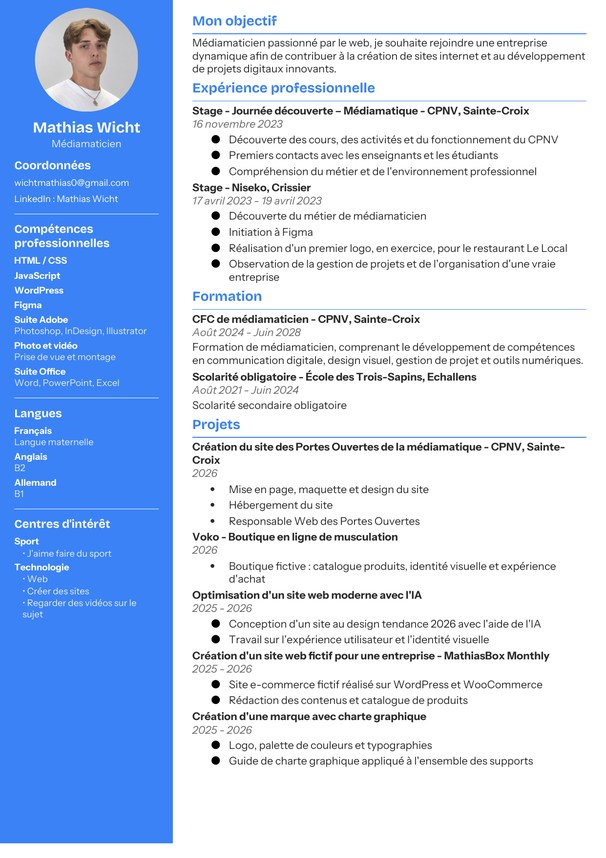
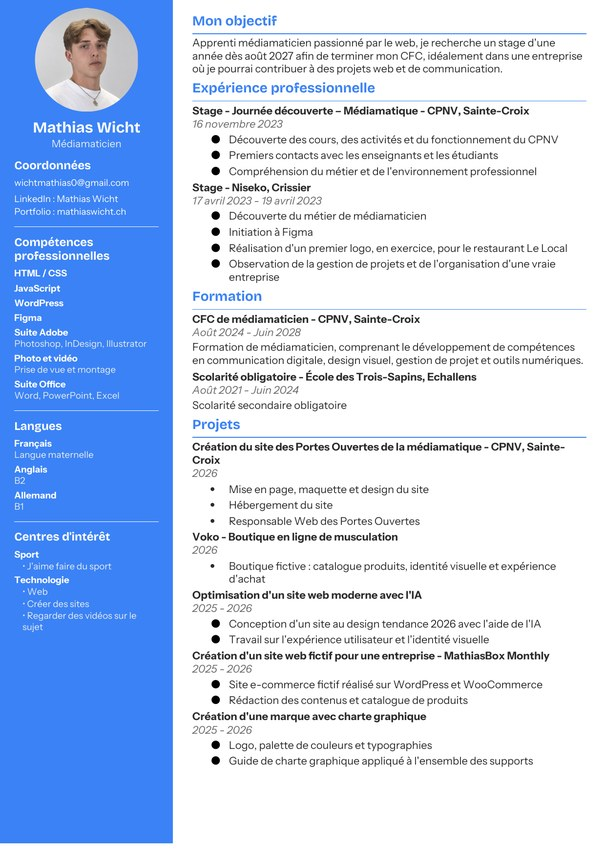
CV : objectif stage août 2027 et lien portfolio

Changed region(s): [[0.0, 0.2424, 0.2673, 0.7576], [0.3267, 0.0303, 0.9802, 0.0909]]

diff --git a/index.html b/index.html
@@ -485,7 +485,7 @@
     </nav>
     <div class="nav-end">
       <div class="lang" aria-label="Langue"><span class="on">FR</span><a href="en/index.html" hreflang="en">EN</a></div>
-      <a download="CV-Mathias-Wicht.pdf" href="documents/cv-mathias-wicht.pdf?v=5" class="btn btn-blue">
+      <a download="CV-Mathias-Wicht.pdf" href="documents/cv-mathias-wicht.pdf?v=6" class="btn btn-blue">
         <svg viewBox="0 0 24 24" fill="none" stroke="currentColor" stroke-width="2"><path d="M12 4v11M7 10l5 5 5-5M5 20h14"/></svg>
         <span class="lbl">Mon CV</span>
       </a>
@@ -507,7 +507,7 @@
           <p>Le <strong>design graphique</strong> vient en complément. Il me sert pour mes maquettes, mes brochures et des affiches que je fais pendant mon temps libre. Cette année, je suis aussi responsable web des Portes Ouvertes de la médiamatique.</p>
           <div class="actions">
             <a href="#projets" class="btn btn-blue">Voir mes projets web</a>
-            <a download="CV-Mathias-Wicht.pdf" href="documents/cv-mathias-wicht.pdf?v=5" class="btn">
+            <a download="CV-Mathias-Wicht.pdf" href="documents/cv-mathias-wicht.pdf?v=6" class="btn">
               <svg viewBox="0 0 24 24" fill="none" stroke="currentColor" stroke-width="2"><path d="M12 4v11M7 10l5 5 5-5M5 20h14"/></svg>
               Télécharger mon CV
             </a>
@@ -908,14 +908,14 @@
   <section class="block" id="cv">
     <div class="wrap">
       <div class="cv fade">
-        <a download="CV-Mathias-Wicht.pdf" class="cv-thumb" href="documents/cv-mathias-wicht.pdf?v=5" aria-label="Télécharger mon CV"><img src="assets/images/cv/cv-apercu.jpg?v=5" alt="Aperçu de mon CV"></a>
+        <a download="CV-Mathias-Wicht.pdf" class="cv-thumb" href="documents/cv-mathias-wicht.pdf?v=6" aria-label="Télécharger mon CV"><img src="assets/images/cv/cv-apercu.jpg?v=6" alt="Aperçu de mon CV"></a>
         <div>
           <span class="kicker">Curriculum vitae</span>
           <h2>Mon CV</h2>
           <p>Toutes mes informations sur une page : formation, expériences, projets, compétences et langues.</p>
           <p>Je recherche une place de stage ou de pratique professionnelle à partir d'août 2027, de préférence dans le web.</p>
           <div class="actions">
-            <a download="CV-Mathias-Wicht.pdf" href="documents/cv-mathias-wicht.pdf?v=5" class="btn btn-blue">
+            <a download="CV-Mathias-Wicht.pdf" href="documents/cv-mathias-wicht.pdf?v=6" class="btn btn-blue">
               <svg viewBox="0 0 24 24" fill="none" stroke="currentColor" stroke-width="2"><path d="M12 4v11M7 10l5 5 5-5M5 20h14"/></svg>
               Télécharger (PDF)
             </a>
@@ -982,7 +982,7 @@
     <nav>
       <a href="https://www.linkedin.com/in/mathias-wicht-8a5030327/" target="_blank" rel="noopener">LinkedIn</a>
       <a href="https://www.instagram.com/t1as.design/" target="_blank" rel="noopener">Instagram</a>
-      <a download="CV-Mathias-Wicht.pdf" href="documents/cv-mathias-wicht.pdf?v=5">Télécharger mon CV</a>
+      <a download="CV-Mathias-Wicht.pdf" href="documents/cv-mathias-wicht.pdf?v=6">Télécharger mon CV</a>
       <a href="confidentialite.html">Confidentialité</a><a href="#" data-cookie-settings>Gérer les cookies</a>
       <a href="#haut">Haut de page</a>
     </nav>

diff --git a/en/index.html b/en/index.html
@@ -484,7 +484,7 @@
 </nav>
 <div class="nav-end">
 <div aria-label="Language" class="lang"><a href="../index.html" hreflang="fr">FR</a><span class="on">EN</span></div>
-<a download="CV-Mathias-Wicht.pdf" class="btn btn-blue" href="../documents/cv-mathias-wicht.pdf?v=5">
+<a download="CV-Mathias-Wicht.pdf" class="btn btn-blue" href="../documents/cv-mathias-wicht.pdf?v=6">
 <svg fill="none" stroke="currentColor" stroke-width="2" viewbox="0 0 24 24"><path d="M12 4v11M7 10l5 5 5-5M5 20h14"></path></svg>
 <span class="lbl">My CV</span>
 </a>
@@ -504,7 +504,7 @@
 <p><strong>Graphic design</strong> comes on top of that. I use it for my mockups, my brochures and the posters I make in my free time. This year, I'm also the web lead for the mediamatics Open Days.</p>
 <div class="actions">
 <a class="btn btn-blue" href="#projets">See my web projects</a>
-<a download="CV-Mathias-Wicht.pdf" class="btn" href="../documents/cv-mathias-wicht.pdf?v=5">
+<a download="CV-Mathias-Wicht.pdf" class="btn" href="../documents/cv-mathias-wicht.pdf?v=6">
 <svg fill="none" stroke="currentColor" stroke-width="2" viewbox="0 0 24 24"><path d="M12 4v11M7 10l5 5 5-5M5 20h14"></path></svg>
               Download my CV
             </a>
@@ -888,14 +888,14 @@
 <section class="block" id="cv">
 <div class="wrap">
 <div class="cv fade">
-<a download="CV-Mathias-Wicht.pdf" aria-label="Download my CV" class="cv-thumb" href="../documents/cv-mathias-wicht.pdf?v=5"><img alt="Preview of my CV" src="../assets/images/cv/cv-apercu.jpg?v=5"/></a>
+<a download="CV-Mathias-Wicht.pdf" aria-label="Download my CV" class="cv-thumb" href="../documents/cv-mathias-wicht.pdf?v=6"><img alt="Preview of my CV" src="../assets/images/cv/cv-apercu.jpg?v=6"/></a>
 <div>
 <span class="kicker">Curriculum vitae</span>
 <h2>My CV</h2>
 <p>Everything about me on one page: education, experience, projects, skills and languages.</p>
 <p>I'm looking for an internship or work placement starting in August 2027, ideally in web. My CV is in French.</p>
 <div class="actions">
-<a download="CV-Mathias-Wicht.pdf" class="btn btn-blue" href="../documents/cv-mathias-wicht.pdf?v=5">
+<a download="CV-Mathias-Wicht.pdf" class="btn btn-blue" href="../documents/cv-mathias-wicht.pdf?v=6">
 <svg fill="none" stroke="currentColor" stroke-width="2" viewbox="0 0 24 24"><path d="M12 4v11M7 10l5 5 5-5M5 20h14"></path></svg>
               Download (PDF)
             </a>
@@ -959,7 +959,7 @@
 <nav>
 <a href="https://www.linkedin.com/in/mathias-wicht-8a5030327/" rel="noopener" target="_blank">LinkedIn</a>
 <a href="https://www.instagram.com/t1as.design/" rel="noopener" target="_blank">Instagram</a>
-<a download="CV-Mathias-Wicht.pdf" href="../documents/cv-mathias-wicht.pdf?v=5">Download my CV</a>
+<a download="CV-Mathias-Wicht.pdf" href="../documents/cv-mathias-wicht.pdf?v=6">Download my CV</a>
 <a href="privacy.html">Privacy policy</a><a href="#" data-cookie-settings>Cookie settings</a>
       <a href="#haut">Back to top</a>
 </nav>

diff --git a/en/projets/impression-typographique.html b/en/projets/impression-typographique.html
@@ -38,7 +38,7 @@
 <a class="brand" href="../index.html"><img alt="T1as" src="../../assets/images/brand/t1as-logo.png"/><i></i><span>Mathias Wicht</span></a>
 <a class="back" href="../index.html#projets"><svg fill="none" stroke="currentColor" stroke-width="2" viewbox="0 0 24 24"><path d="M15 6l-6 6 6 6"></path></svg>All projects</a>
 <div class="nav-r"><div aria-label="Language" class="lang"><a href="../../projets/impression-typographique.html" hreflang="fr">FR</a><span class="on">EN</span></div>
-<a download="CV-Mathias-Wicht.pdf" class="btn btn-blue" href="../../documents/cv-mathias-wicht.pdf?v=5"><svg fill="none" stroke="currentColor" stroke-width="2" viewbox="0 0 24 24"><path d="M12 4v11M7 10l5 5 5-5M5 20h14"></path></svg><span class="lbl">My CV</span></a></div>
+<a download="CV-Mathias-Wicht.pdf" class="btn btn-blue" href="../../documents/cv-mathias-wicht.pdf?v=6"><svg fill="none" stroke="currentColor" stroke-width="2" viewbox="0 0 24 24"><path d="M12 4v11M7 10l5 5 5-5M5 20h14"></path></svg><span class="lbl">My CV</span></a></div>
 </div>
 </header>
 <main>
@@ -77,7 +77,7 @@
 <footer>
 <div class="wrap foot">
 <span>© <span id="year">2026</span> Mathias Wicht</span>
-<span class="foot-links"><a download="CV-Mathias-Wicht.pdf" href="../../documents/cv-mathias-wicht.pdf?v=5">Download my CV</a><a href="mailto:wichtmathias0@gmail.com">wichtmathias0@gmail.com</a><a href="../privacy.html">Privacy policy</a><a href="#" data-cookie-settings>Cookie settings</a><a href="../index.html">Back to portfolio</a></span>
+<span class="foot-links"><a download="CV-Mathias-Wicht.pdf" href="../../documents/cv-mathias-wicht.pdf?v=6">Download my CV</a><a href="mailto:wichtmathias0@gmail.com">wichtmathias0@gmail.com</a><a href="../privacy.html">Privacy policy</a><a href="#" data-cookie-settings>Cookie settings</a><a href="../index.html">Back to portfolio</a></span>
 </div>
 </footer>
 <div aria-hidden="true" class="viewer" id="viewer">

diff --git a/en/projets/portes-ouvertes-2026.html b/en/projets/portes-ouvertes-2026.html
@@ -38,7 +38,7 @@
 <a class="brand" href="../index.html"><img alt="T1as" src="../../assets/images/brand/t1as-logo.png"/><i></i><span>Mathias Wicht</span></a>
 <a class="back" href="../index.html#projets"><svg fill="none" stroke="currentColor" stroke-width="2" viewbox="0 0 24 24"><path d="M15 6l-6 6 6 6"></path></svg>All projects</a>
 <div class="nav-r"><div aria-label="Language" class="lang"><a href="../../projets/portes-ouvertes-2026.html" hreflang="fr">FR</a><span class="on">EN</span></div>
-<a download="CV-Mathias-Wicht.pdf" class="btn btn-blue" href="../../documents/cv-mathias-wicht.pdf?v=5"><svg fill="none" stroke="currentColor" stroke-width="2" viewbox="0 0 24 24"><path d="M12 4v11M7 10l5 5 5-5M5 20h14"></path></svg><span class="lbl">My CV</span></a></div>
+<a download="CV-Mathias-Wicht.pdf" class="btn btn-blue" href="../../documents/cv-mathias-wicht.pdf?v=6"><svg fill="none" stroke="currentColor" stroke-width="2" viewbox="0 0 24 24"><path d="M12 4v11M7 10l5 5 5-5M5 20h14"></path></svg><span class="lbl">My CV</span></a></div>
 </div>
 </header>
 <main>
@@ -80,7 +80,7 @@
 <footer>
 <div class="wrap foot">
 <span>© <span id="year">2026</span> Mathias Wicht</span>
-<span class="foot-links"><a download="CV-Mathias-Wicht.pdf" href="../../documents/cv-mathias-wicht.pdf?v=5">Download my CV</a><a href="mailto:wichtmathias0@gmail.com">wichtmathias0@gmail.com</a><a href="../privacy.html">Privacy policy</a><a href="#" data-cookie-settings>Cookie settings</a><a href="../index.html">Back to portfolio</a></span>
+<span class="foot-links"><a download="CV-Mathias-Wicht.pdf" href="../../documents/cv-mathias-wicht.pdf?v=6">Download my CV</a><a href="mailto:wichtmathias0@gmail.com">wichtmathias0@gmail.com</a><a href="../privacy.html">Privacy policy</a><a href="#" data-cookie-settings>Cookie settings</a><a href="../index.html">Back to portfolio</a></span>
 </div>
 </footer>
 <div aria-hidden="true" class="viewer" id="viewer">

diff --git a/en/projets/brochure-varsovie.html b/en/projets/brochure-varsovie.html
@@ -38,7 +38,7 @@
 <a class="brand" href="../index.html"><img alt="T1as" src="../../assets/images/brand/t1as-logo.png"/><i></i><span>Mathias Wicht</span></a>
 <a class="back" href="../index.html#projets"><svg fill="none" stroke="currentColor" stroke-width="2" viewbox="0 0 24 24"><path d="M15 6l-6 6 6 6"></path></svg>All projects</a>
 <div class="nav-r"><div aria-label="Language" class="lang"><a href="../../projets/brochure-varsovie.html" hreflang="fr">FR</a><span class="on">EN</span></div>
-<a download="CV-Mathias-Wicht.pdf" class="btn btn-blue" href="../../documents/cv-mathias-wicht.pdf?v=5"><svg fill="none" stroke="currentColor" stroke-width="2" viewbox="0 0 24 24"><path d="M12 4v11M7 10l5 5 5-5M5 20h14"></path></svg><span class="lbl">My CV</span></a></div>
+<a download="CV-Mathias-Wicht.pdf" class="btn btn-blue" href="../../documents/cv-mathias-wicht.pdf?v=6"><svg fill="none" stroke="currentColor" stroke-width="2" viewbox="0 0 24 24"><path d="M12 4v11M7 10l5 5 5-5M5 20h14"></path></svg><span class="lbl">My CV</span></a></div>
 </div>
 </header>
 <main>
@@ -81,7 +81,7 @@
 <footer>
 <div class="wrap foot">
 <span>© <span id="year">2026</span> Mathias Wicht</span>
-<span class="foot-links"><a download="CV-Mathias-Wicht.pdf" href="../../documents/cv-mathias-wicht.pdf?v=5">Download my CV</a><a href="mailto:wichtmathias0@gmail.com">wichtmathias0@gmail.com</a><a href="../privacy.html">Privacy policy</a><a href="#" data-cookie-settings>Cookie settings</a><a href="../index.html">Back to portfolio</a></span>
+<span class="foot-links"><a download="CV-Mathias-Wicht.pdf" href="../../documents/cv-mathias-wicht.pdf?v=6">Download my CV</a><a href="mailto:wichtmathias0@gmail.com">wichtmathias0@gmail.com</a><a href="../privacy.html">Privacy policy</a><a href="#" data-cookie-settings>Cookie settings</a><a href="../index.html">Back to portfolio</a></span>
 </div>
 </footer>
 <div aria-hidden="true" class="viewer" id="viewer">

diff --git a/projets/impression-typographique.html b/projets/impression-typographique.html
@@ -38,7 +38,7 @@
     <a href="../index.html" class="brand"><img src="../assets/images/brand/t1as-logo.png" alt="T1as"><i></i><span>Mathias Wicht</span></a>
     <a href="../index.html#projets" class="back"><svg viewBox="0 0 24 24" fill="none" stroke="currentColor" stroke-width="2"><path d="M15 6l-6 6 6 6"/></svg>Tous les projets</a>
     <div class="nav-r"><div class="lang" aria-label="Langue"><span class="on">FR</span><a href="../en/projets/impression-typographique.html" hreflang="en">EN</a></div>
-    <a download="CV-Mathias-Wicht.pdf" href="../documents/cv-mathias-wicht.pdf?v=5" class="btn btn-blue"><svg viewBox="0 0 24 24" fill="none" stroke="currentColor" stroke-width="2"><path d="M12 4v11M7 10l5 5 5-5M5 20h14"/></svg><span class="lbl">Mon CV</span></a></div>
+    <a download="CV-Mathias-Wicht.pdf" href="../documents/cv-mathias-wicht.pdf?v=6" class="btn btn-blue"><svg viewBox="0 0 24 24" fill="none" stroke="currentColor" stroke-width="2"><path d="M12 4v11M7 10l5 5 5-5M5 20h14"/></svg><span class="lbl">Mon CV</span></a></div>
   </div>
 </header>
 
@@ -82,7 +82,7 @@
 <footer>
   <div class="wrap foot">
     <span>© <span id="year">2026</span> Mathias Wicht</span>
-    <span class="foot-links"><a download="CV-Mathias-Wicht.pdf" href="../documents/cv-mathias-wicht.pdf?v=5">Télécharger mon CV</a><a href="mailto:wichtmathias0@gmail.com">wichtmathias0@gmail.com</a><a href="../confidentialite.html">Confidentialité</a><a href="#" data-cookie-settings>Gérer les cookies</a><a href="../index.html">Retour au portfolio</a></span>
+    <span class="foot-links"><a download="CV-Mathias-Wicht.pdf" href="../documents/cv-mathias-wicht.pdf?v=6">Télécharger mon CV</a><a href="mailto:wichtmathias0@gmail.com">wichtmathias0@gmail.com</a><a href="../confidentialite.html">Confidentialité</a><a href="#" data-cookie-settings>Gérer les cookies</a><a href="../index.html">Retour au portfolio</a></span>
   </div>
 </footer>
 

diff --git a/en/projets/charte-linscrit.html b/en/projets/charte-linscrit.html
@@ -38,7 +38,7 @@
 <a class="brand" href="../index.html"><img alt="T1as" src="../../assets/images/brand/t1as-logo.png"/><i></i><span>Mathias Wicht</span></a>
 <a class="back" href="../index.html#projets"><svg fill="none" stroke="currentColor" stroke-width="2" viewbox="0 0 24 24"><path d="M15 6l-6 6 6 6"></path></svg>All projects</a>
 <div class="nav-r"><div aria-label="Language" class="lang"><a href="../../projets/charte-linscrit.html" hreflang="fr">FR</a><span class="on">EN</span></div>
-<a download="CV-Mathias-Wicht.pdf" class="btn btn-blue" href="../../documents/cv-mathias-wicht.pdf?v=5"><svg fill="none" stroke="currentColor" stroke-width="2" viewbox="0 0 24 24"><path d="M12 4v11M7 10l5 5 5-5M5 20h14"></path></svg><span class="lbl">My CV</span></a></div>
+<a download="CV-Mathias-Wicht.pdf" class="btn btn-blue" href="../../documents/cv-mathias-wicht.pdf?v=6"><svg fill="none" stroke="currentColor" stroke-width="2" viewbox="0 0 24 24"><path d="M12 4v11M7 10l5 5 5-5M5 20h14"></path></svg><span class="lbl">My CV</span></a></div>
 </div>
 </header>
 <main>
@@ -85,7 +85,7 @@
 <footer>
 <div class="wrap foot">
 <span>© <span id="year">2026</span> Mathias Wicht</span>
-<span class="foot-links"><a download="CV-Mathias-Wicht.pdf" href="../../documents/cv-mathias-wicht.pdf?v=5">Download my CV</a><a href="mailto:wichtmathias0@gmail.com">wichtmathias0@gmail.com</a><a href="../privacy.html">Privacy policy</a><a href="#" data-cookie-settings>Cookie settings</a><a href="../index.html">Back to portfolio</a></span>
+<span class="foot-links"><a download="CV-Mathias-Wicht.pdf" href="../../documents/cv-mathias-wicht.pdf?v=6">Download my CV</a><a href="mailto:wichtmathias0@gmail.com">wichtmathias0@gmail.com</a><a href="../privacy.html">Privacy policy</a><a href="#" data-cookie-settings>Cookie settings</a><a href="../index.html">Back to portfolio</a></span>
 </div>
 </footer>
 <div aria-hidden="true" class="viewer" id="viewer">

diff --git a/en/projets/regimo-lausanne.html b/en/projets/regimo-lausanne.html
@@ -38,7 +38,7 @@
 <a class="brand" href="../index.html"><img alt="T1as" src="../../assets/images/brand/t1as-logo.png"/><i></i><span>Mathias Wicht</span></a>
 <a class="back" href="../index.html#projets"><svg fill="none" stroke="currentColor" stroke-width="2" viewbox="0 0 24 24"><path d="M15 6l-6 6 6 6"></path></svg>All projects</a>
 <div class="nav-r"><div aria-label="Language" class="lang"><a href="../../projets/regimo-lausanne.html" hreflang="fr">FR</a><span class="on">EN</span></div>
-<a download="CV-Mathias-Wicht.pdf" class="btn btn-blue" href="../../documents/cv-mathias-wicht.pdf?v=5"><svg fill="none" stroke="currentColor" stroke-width="2" viewbox="0 0 24 24"><path d="M12 4v11M7 10l5 5 5-5M5 20h14"></path></svg><span class="lbl">My CV</span></a></div>
+<a download="CV-Mathias-Wicht.pdf" class="btn btn-blue" href="../../documents/cv-mathias-wicht.pdf?v=6"><svg fill="none" stroke="currentColor" stroke-width="2" viewbox="0 0 24 24"><path d="M12 4v11M7 10l5 5 5-5M5 20h14"></path></svg><span class="lbl">My CV</span></a></div>
 </div>
 </header>
 <main>
@@ -82,7 +82,7 @@
 <footer>
 <div class="wrap foot">
 <span>© <span id="year">2026</span> Mathias Wicht</span>
-<span class="foot-links"><a download="CV-Mathias-Wicht.pdf" href="../../documents/cv-mathias-wicht.pdf?v=5">Download my CV</a><a href="mailto:wichtmathias0@gmail.com">wichtmathias0@gmail.com</a><a href="../privacy.html">Privacy policy</a><a href="#" data-cookie-settings>Cookie settings</a><a href="../index.html">Back to portfolio</a></span>
+<span class="foot-links"><a download="CV-Mathias-Wicht.pdf" href="../../documents/cv-mathias-wicht.pdf?v=6">Download my CV</a><a href="mailto:wichtmathias0@gmail.com">wichtmathias0@gmail.com</a><a href="../privacy.html">Privacy policy</a><a href="#" data-cookie-settings>Cookie settings</a><a href="../index.html">Back to portfolio</a></span>
 </div>
 </footer>
 <div aria-hidden="true" class="viewer" id="viewer">

diff --git a/projets/portes-ouvertes-2026.html b/projets/portes-ouvertes-2026.html
@@ -38,7 +38,7 @@
     <a href="../index.html" class="brand"><img src="../assets/images/brand/t1as-logo.png" alt="T1as"><i></i><span>Mathias Wicht</span></a>
     <a href="../index.html#projets" class="back"><svg viewBox="0 0 24 24" fill="none" stroke="currentColor" stroke-width="2"><path d="M15 6l-6 6 6 6"/></svg>Tous les projets</a>
     <div class="nav-r"><div class="lang" aria-label="Langue"><span class="on">FR</span><a href="../en/projets/portes-ouvertes-2026.html" hreflang="en">EN</a></div>
-    <a download="CV-Mathias-Wicht.pdf" href="../documents/cv-mathias-wicht.pdf?v=5" class="btn btn-blue"><svg viewBox="0 0 24 24" fill="none" stroke="currentColor" stroke-width="2"><path d="M12 4v11M7 10l5 5 5-5M5 20h14"/></svg><span class="lbl">Mon CV</span></a></div>
+    <a download="CV-Mathias-Wicht.pdf" href="../documents/cv-mathias-wicht.pdf?v=6" class="btn btn-blue"><svg viewBox="0 0 24 24" fill="none" stroke="currentColor" stroke-width="2"><path d="M12 4v11M7 10l5 5 5-5M5 20h14"/></svg><span class="lbl">Mon CV</span></a></div>
   </div>
 </header>
 
@@ -85,7 +85,7 @@
 <footer>
   <div class="wrap foot">
     <span>© <span id="year">2026</span> Mathias Wicht</span>
-    <span class="foot-links"><a download="CV-Mathias-Wicht.pdf" href="../documents/cv-mathias-wicht.pdf?v=5">Télécharger mon CV</a><a href="mailto:wichtmathias0@gmail.com">wichtmathias0@gmail.com</a><a href="../confidentialite.html">Confidentialité</a><a href="#" data-cookie-settings>Gérer les cookies</a><a href="../index.html">Retour au portfolio</a></span>
+    <span class="foot-links"><a download="CV-Mathias-Wicht.pdf" href="../documents/cv-mathias-wicht.pdf?v=6">Télécharger mon CV</a><a href="mailto:wichtmathias0@gmail.com">wichtmathias0@gmail.com</a><a href="../confidentialite.html">Confidentialité</a><a href="#" data-cookie-settings>Gérer les cookies</a><a href="../index.html">Retour au portfolio</a></span>
   </div>
 </footer>
 

diff --git a/en/projets/mathiasbox.html b/en/projets/mathiasbox.html
@@ -38,7 +38,7 @@
 <a class="brand" href="../index.html"><img alt="T1as" src="../../assets/images/brand/t1as-logo.png"/><i></i><span>Mathias Wicht</span></a>
 <a class="back" href="../index.html#projets"><svg fill="none" stroke="currentColor" stroke-width="2" viewbox="0 0 24 24"><path d="M15 6l-6 6 6 6"></path></svg>All projects</a>
 <div class="nav-r"><div aria-label="Language" class="lang"><a href="../../projets/mathiasbox.html" hreflang="fr">FR</a><span class="on">EN</span></div>
-<a download="CV-Mathias-Wicht.pdf" class="btn btn-blue" href="../../documents/cv-mathias-wicht.pdf?v=5"><svg fill="none" stroke="currentColor" stroke-width="2" viewbox="0 0 24 24"><path d="M12 4v11M7 10l5 5 5-5M5 20h14"></path></svg><span class="lbl">My CV</span></a></div>
+<a download="CV-Mathias-Wicht.pdf" class="btn btn-blue" href="../../documents/cv-mathias-wicht.pdf?v=6"><svg fill="none" stroke="currentColor" stroke-width="2" viewbox="0 0 24 24"><path d="M12 4v11M7 10l5 5 5-5M5 20h14"></path></svg><span class="lbl">My CV</span></a></div>
 </div>
 </header>
 <main>
@@ -77,7 +77,7 @@
 <footer>
 <div class="wrap foot">
 <span>© <span id="year">2026</span> Mathias Wicht</span>
-<span class="foot-links"><a download="CV-Mathias-Wicht.pdf" href="../../documents/cv-mathias-wicht.pdf?v=5">Download my CV</a><a href="mailto:wichtmathias0@gmail.com">wichtmathias0@gmail.com</a><a href="../privacy.html">Privacy policy</a><a href="#" data-cookie-settings>Cookie settings</a><a href="../index.html">Back to portfolio</a></span>
+<span class="foot-links"><a download="CV-Mathias-Wicht.pdf" href="../../documents/cv-mathias-wicht.pdf?v=6">Download my CV</a><a href="mailto:wichtmathias0@gmail.com">wichtmathias0@gmail.com</a><a href="../privacy.html">Privacy policy</a><a href="#" data-cookie-settings>Cookie settings</a><a href="../index.html">Back to portfolio</a></span>
 </div>
 </footer>
 <div aria-hidden="true" class="viewer" id="viewer">

diff --git a/projets/brochure-varsovie.html b/projets/brochure-varsovie.html
@@ -38,7 +38,7 @@
     <a href="../index.html" class="brand"><img src="../assets/images/brand/t1as-logo.png" alt="T1as"><i></i><span>Mathias Wicht</span></a>
     <a href="../index.html#projets" class="back"><svg viewBox="0 0 24 24" fill="none" stroke="currentColor" stroke-width="2"><path d="M15 6l-6 6 6 6"/></svg>Tous les projets</a>
     <div class="nav-r"><div class="lang" aria-label="Langue"><span class="on">FR</span><a href="../en/projets/brochure-varsovie.html" hreflang="en">EN</a></div>
-    <a download="CV-Mathias-Wicht.pdf" href="../documents/cv-mathias-wicht.pdf?v=5" class="btn btn-blue"><svg viewBox="0 0 24 24" fill="none" stroke="currentColor" stroke-width="2"><path d="M12 4v11M7 10l5 5 5-5M5 20h14"/></svg><span class="lbl">Mon CV</span></a></div>
+    <a download="CV-Mathias-Wicht.pdf" href="../documents/cv-mathias-wicht.pdf?v=6" class="btn btn-blue"><svg viewBox="0 0 24 24" fill="none" stroke="currentColor" stroke-width="2"><path d="M12 4v11M7 10l5 5 5-5M5 20h14"/></svg><span class="lbl">Mon CV</span></a></div>
   </div>
 </header>
 
@@ -86,7 +86,7 @@
 <footer>
   <div class="wrap foot">
     <span>© <span id="year">2026</span> Mathias Wicht</span>
-    <span class="foot-links"><a download="CV-Mathias-Wicht.pdf" href="../documents/cv-mathias-wicht.pdf?v=5">Télécharger mon CV</a><a href="mailto:wichtmathias0@gmail.com">wichtmathias0@gmail.com</a><a href="../confidentialite.html">Confidentialité</a><a href="#" data-cookie-settings>Gérer les cookies</a><a href="../index.html">Retour au portfolio</a></span>
+    <span class="foot-links"><a download="CV-Mathias-Wicht.pdf" href="../documents/cv-mathias-wicht.pdf?v=6">Télécharger mon CV</a><a href="mailto:wichtmathias0@gmail.com">wichtmathias0@gmail.com</a><a href="../confidentialite.html">Confidentialité</a><a href="#" data-cookie-settings>Gérer les cookies</a><a href="../index.html">Retour au portfolio</a></span>
   </div>
 </footer>
 

diff --git a/projets/charte-linscrit.html b/projets/charte-linscrit.html
@@ -38,7 +38,7 @@
     <a href="../index.html" class="brand"><img src="../assets/images/brand/t1as-logo.png" alt="T1as"><i></i><span>Mathias Wicht</span></a>
     <a href="../index.html#projets" class="back"><svg viewBox="0 0 24 24" fill="none" stroke="currentColor" stroke-width="2"><path d="M15 6l-6 6 6 6"/></svg>Tous les projets</a>
     <div class="nav-r"><div class="lang" aria-label="Langue"><span class="on">FR</span><a href="../en/projets/charte-linscrit.html" hreflang="en">EN</a></div>
-    <a download="CV-Mathias-Wicht.pdf" href="../documents/cv-mathias-wicht.pdf?v=5" class="btn btn-blue"><svg viewBox="0 0 24 24" fill="none" stroke="currentColor" stroke-width="2"><path d="M12 4v11M7 10l5 5 5-5M5 20h14"/></svg><span class="lbl">Mon CV</span></a></div>
+    <a download="CV-Mathias-Wicht.pdf" href="../documents/cv-mathias-wicht.pdf?v=6" class="btn btn-blue"><svg viewBox="0 0 24 24" fill="none" stroke="currentColor" stroke-width="2"><path d="M12 4v11M7 10l5 5 5-5M5 20h14"/></svg><span class="lbl">Mon CV</span></a></div>
   </div>
 </header>
 
@@ -91,7 +91,7 @@
 <footer>
   <div class="wrap foot">
     <span>© <span id="year">2026</span> Mathias Wicht</span>
-    <span class="foot-links"><a download="CV-Mathias-Wicht.pdf" href="../documents/cv-mathias-wicht.pdf?v=5">Télécharger mon CV</a><a href="mailto:wichtmathias0@gmail.com">wichtmathias0@gmail.com</a><a href="../confidentialite.html">Confidentialité</a><a href="#" data-cookie-settings>Gérer les cookies</a><a href="../index.html">Retour au portfolio</a></span>
+    <span class="foot-links"><a download="CV-Mathias-Wicht.pdf" href="../documents/cv-mathias-wicht.pdf?v=6">Télécharger mon CV</a><a href="mailto:wichtmathias0@gmail.com">wichtmathias0@gmail.com</a><a href="../confidentialite.html">Confidentialité</a><a href="#" data-cookie-settings>Gérer les cookies</a><a href="../index.html">Retour au portfolio</a></span>
   </div>
 </footer>
 
